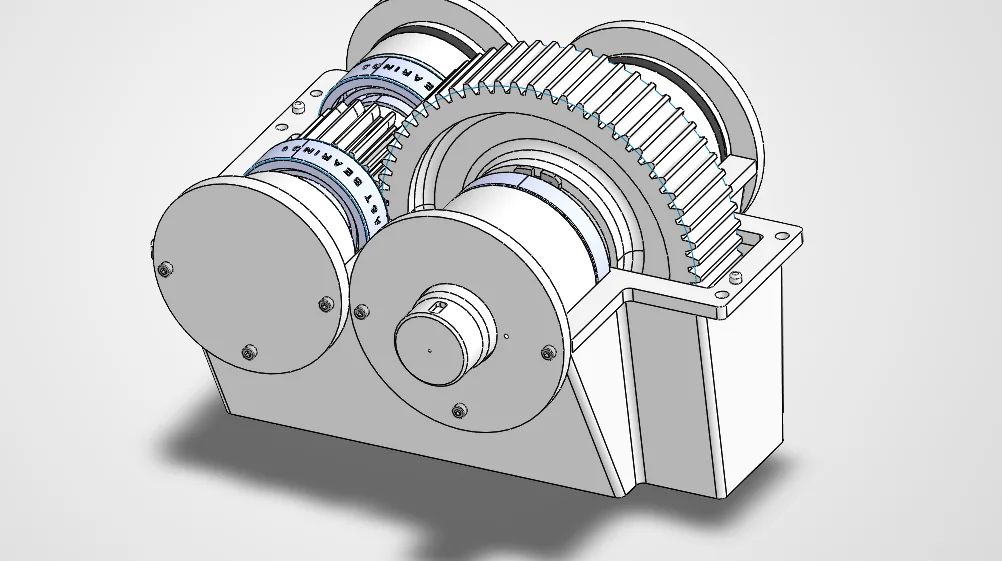
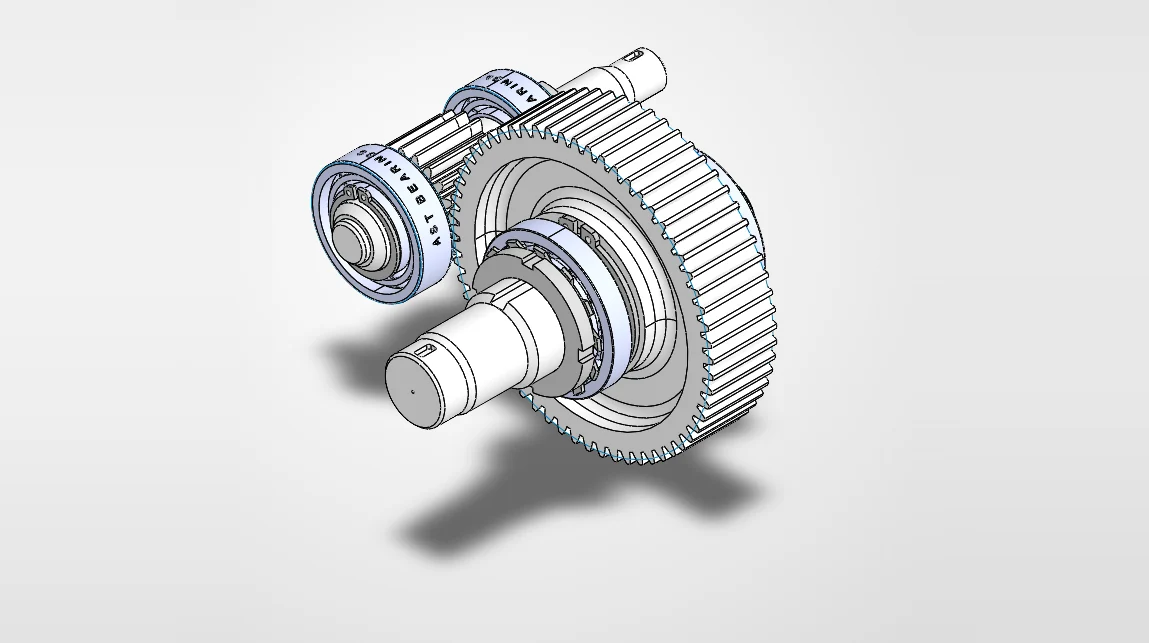
GearShock : vue CAO des deux arbres sans carter dans la vignette en haut à droite
Claude-Session: https://claude.ai/code/session_01BLhgvD1zSSkDCUHE1qvZTu

diff --git a/projects/index.html b/projects/index.html
@@ -102,7 +102,7 @@
           <figcaption class="fg-tag" data-i18n="projects.realized3.cap_shaft">Output shaft · SolidWorks</figcaption>
         </figure>
         <figure class="fg-cockpit">
-          <img src="../assets/images/projects-gearshock-cad.webp" alt="CAD model of the single-stage spur gear reducer with its housing and bearings" data-i18n-attr="alt:projects.realized3.alt_cad" width="1002" height="561" loading="lazy" decoding="async">
+          <img src="../assets/images/projects-gearshock-cad.webp" alt="CAD model of the two shafts fitted with their gears and bearings, housing hidden" data-i18n-attr="alt:projects.realized3.alt_cad" width="1149" height="643" loading="lazy" decoding="async">
           <figcaption class="fg-tag" data-i18n="projects.realized3.cap_cad">CAD · SolidWorks</figcaption>
         </figure>
         <figure class="fg-profile">
